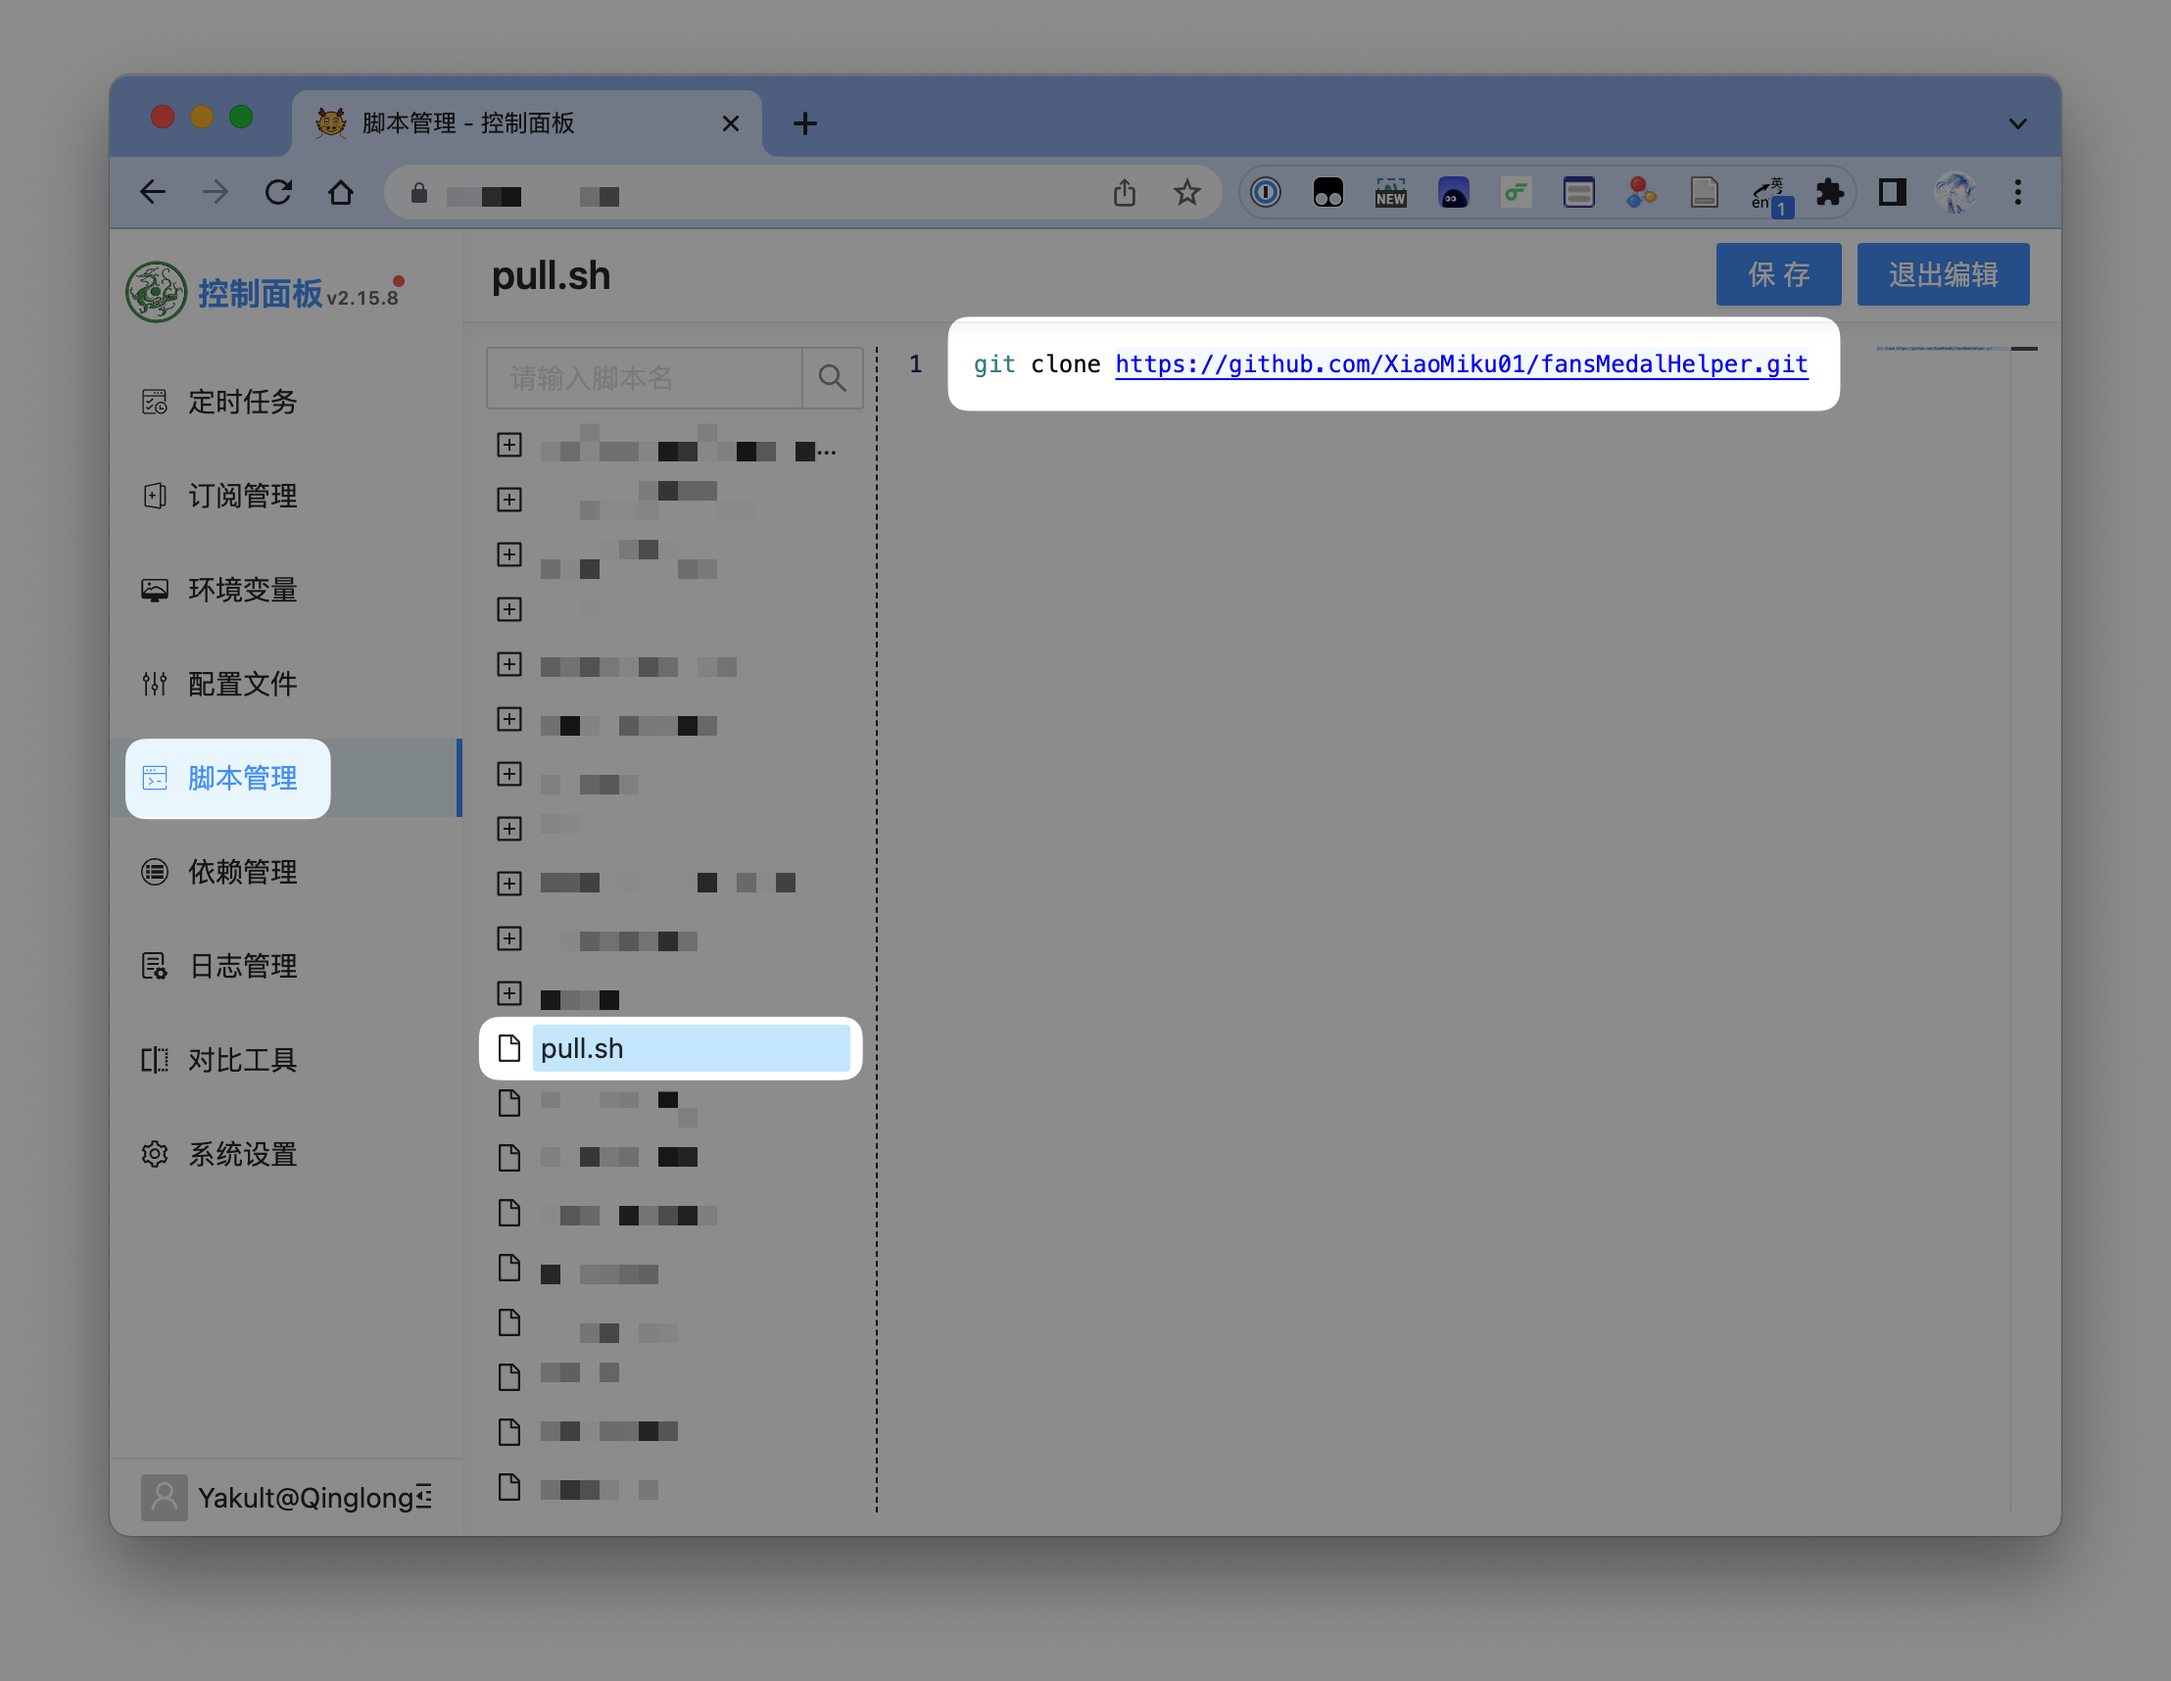
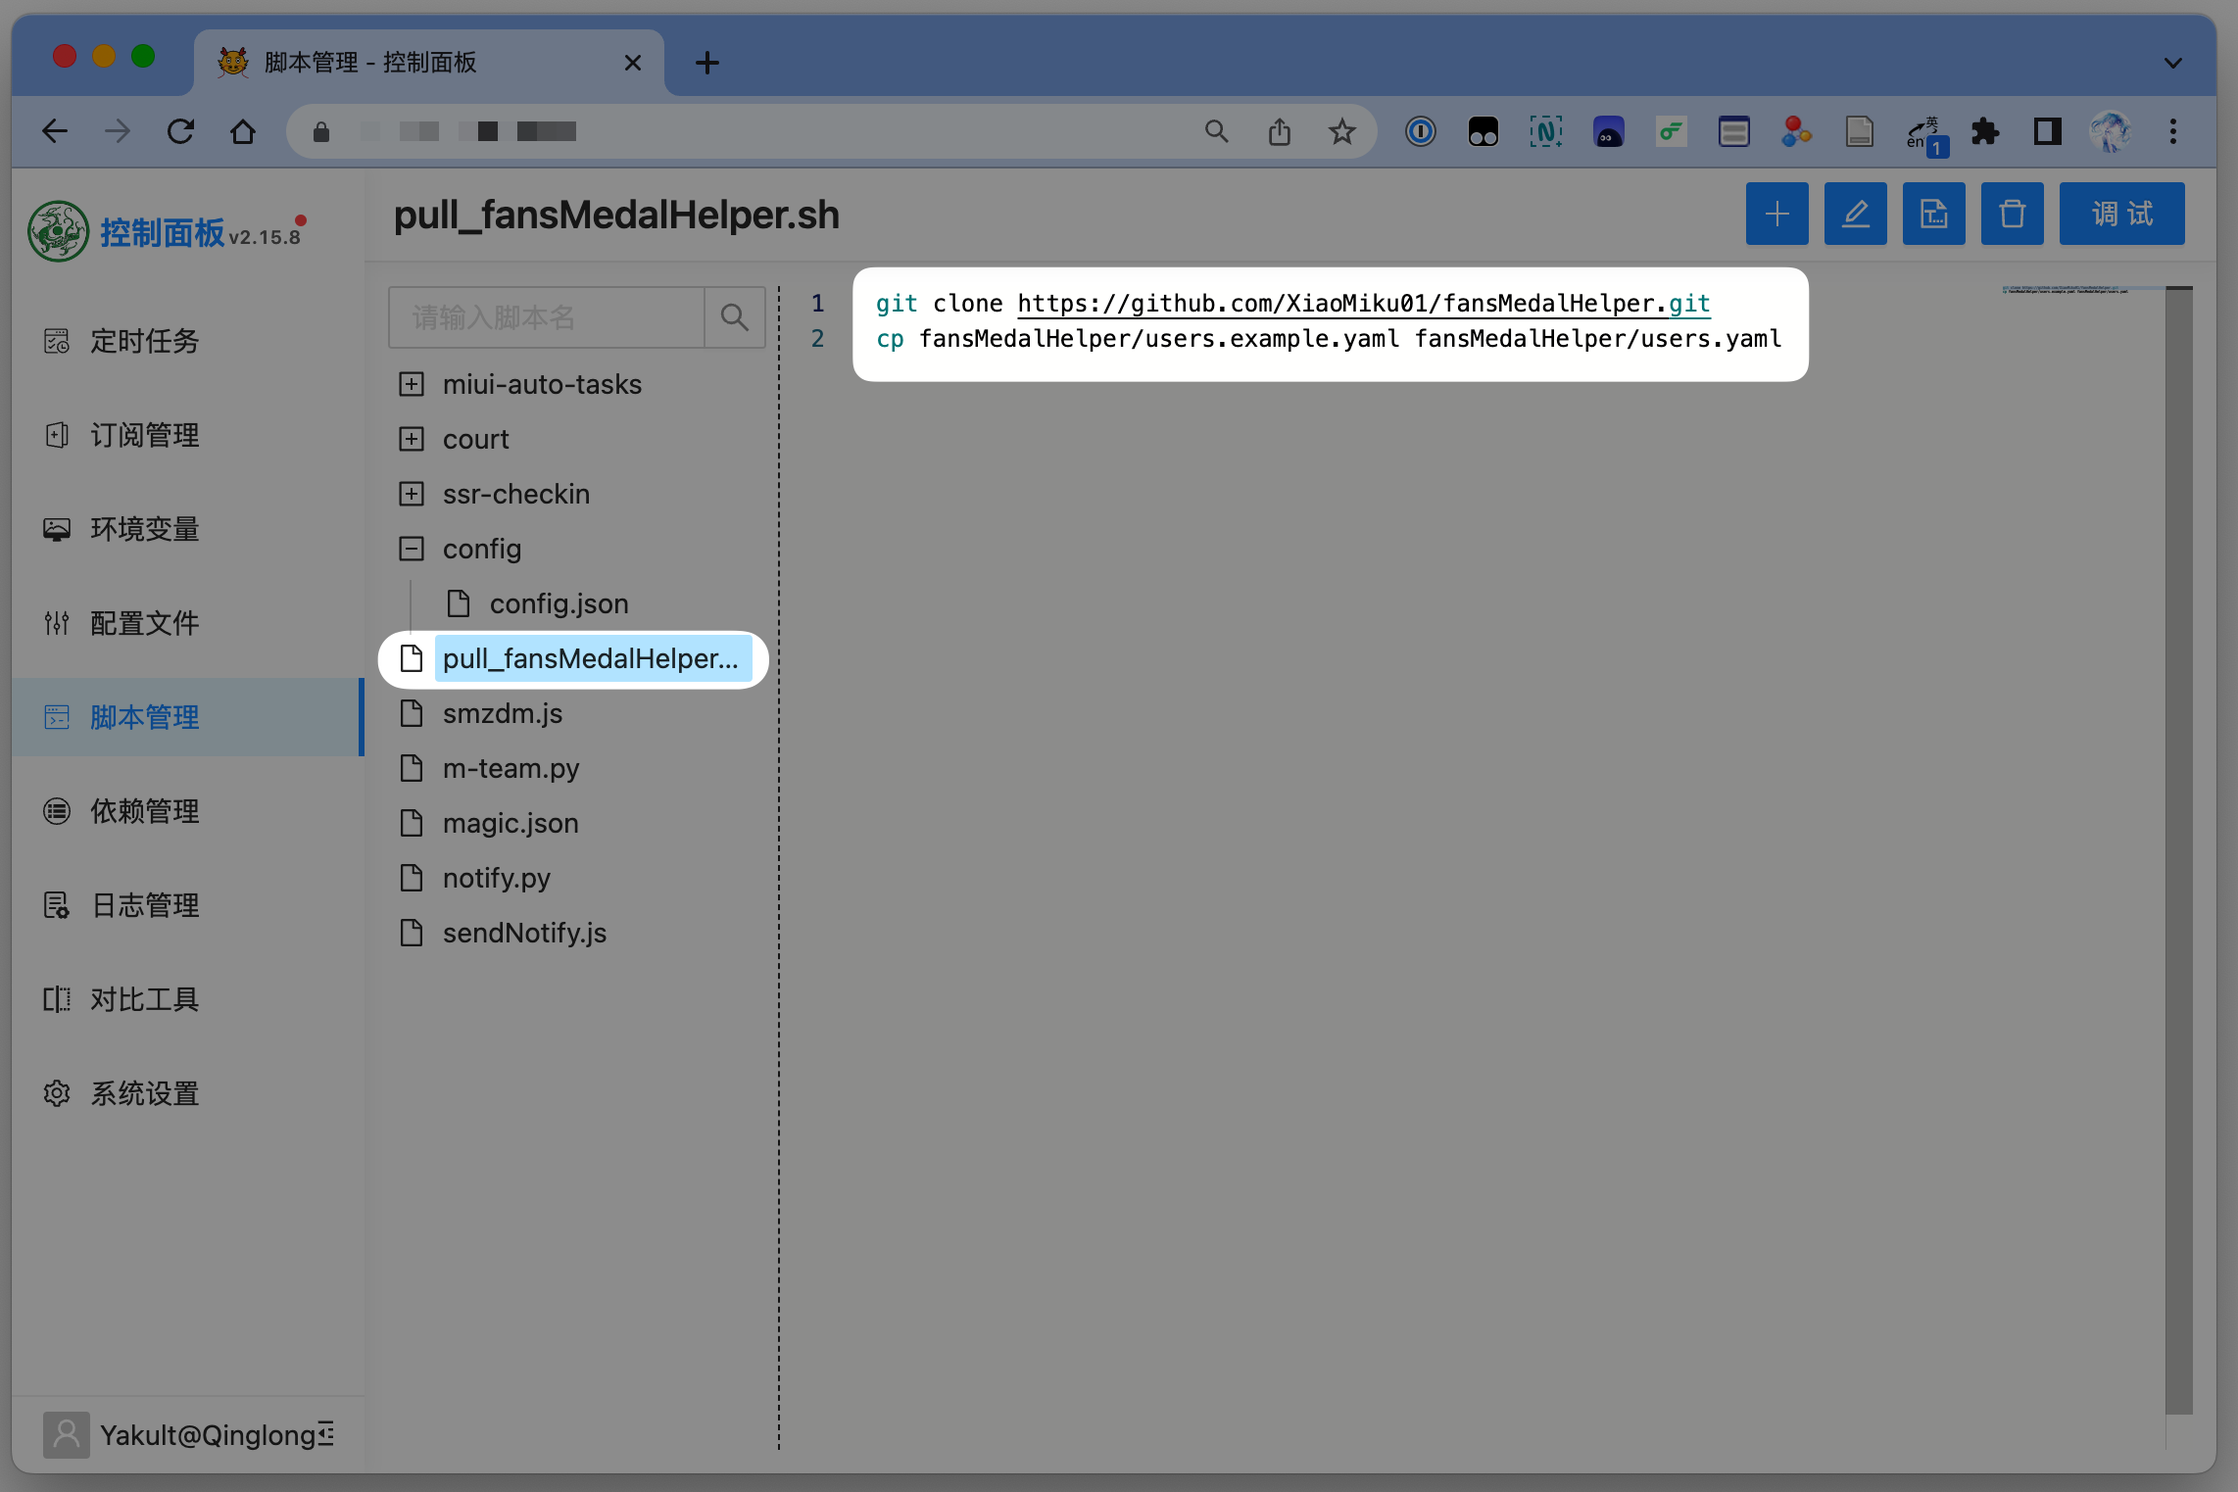
docs: 更新青龙面板部署方式

diff --git a/docs/guide/qinglong.md b/docs/guide/qinglong.md
@@ -21,26 +21,28 @@ sidebar:
     apscheduler
     ```
 
-- 左侧「脚本管理」，点击右上角加号，选择“新建文件”，填写脚本名称 `pull.sh`。
+- 左侧「脚本管理」，点击右上角加号，选择“新建文件”，填写脚本名称 `pull_fansMedalHelper.sh`。
     ![](../images/other/image1.png)
 
 - 输入以下内容，点击“保存”。
 
     ```shell
     git clone https://github.com/XiaoMiku01/fansMedalHelper.git
+    cp fansMedalHelper/users.example.yaml fansMedalHelper/users.yaml
     ```
 
     ![](../images/other/image2.png)
 
-- 左侧「定时任务」，然后新建任务，名称随便填，命令填 `task pull.sh`, 定时规则随便填，因为这个任务只要执行一次，确定。
+- 左侧「定时任务」，然后新建任务，名称随便填，命令填 `task pull_fansMedalHelper.sh`, 定时规则随便填，因为这个任务只要执行一次，确定。
     ![](../images/other/image3.png)
 
-- 点击右侧运行，打开日志，等待仓库拉取完成，之后就可以禁用或者删除这个脚本了。
+- 点击右侧运行，打开日志，等待仓库拉取完成，之后**禁用或者删除这个脚本**。
 
-- 回到脚本管理，找到 `fansMedalHelper/users.example.yaml` 文件，复制全部内容。然后新建 `fansMedalHelper/users.yaml` 文件，将复制的内容粘贴进去，并填写自己的配置，点击“保存”。
+- 回到脚本管理，找到 `fansMedalHelper/users.yaml` 文件，填写自己的配置，点击“保存”。
     ![](../images/other/image5.png)
     ::: tip 提示
     配置文件说明 ：[配置文件](./#配置文件说明-users-yaml)
+
     B 站 `access_key` 获取工具：[Release B 站 access_key 获取工具 · XiaoMiku01/fansMedalHelper (github.com)](https://github.com/XiaoMiku01/fansMedalHelper/releases/tag/logintool)
     :::
 
@@ -52,7 +54,7 @@ sidebar:
     日志中可能出现乱码，是正常现象，因为是输出的日志无法显示文字颜色。
     :::
 
-- 如何更新  
+- 如何更新
     新建一个名为 `update_fansMedalHelper.sh` 的脚本，内容为：
 
     ```shell
